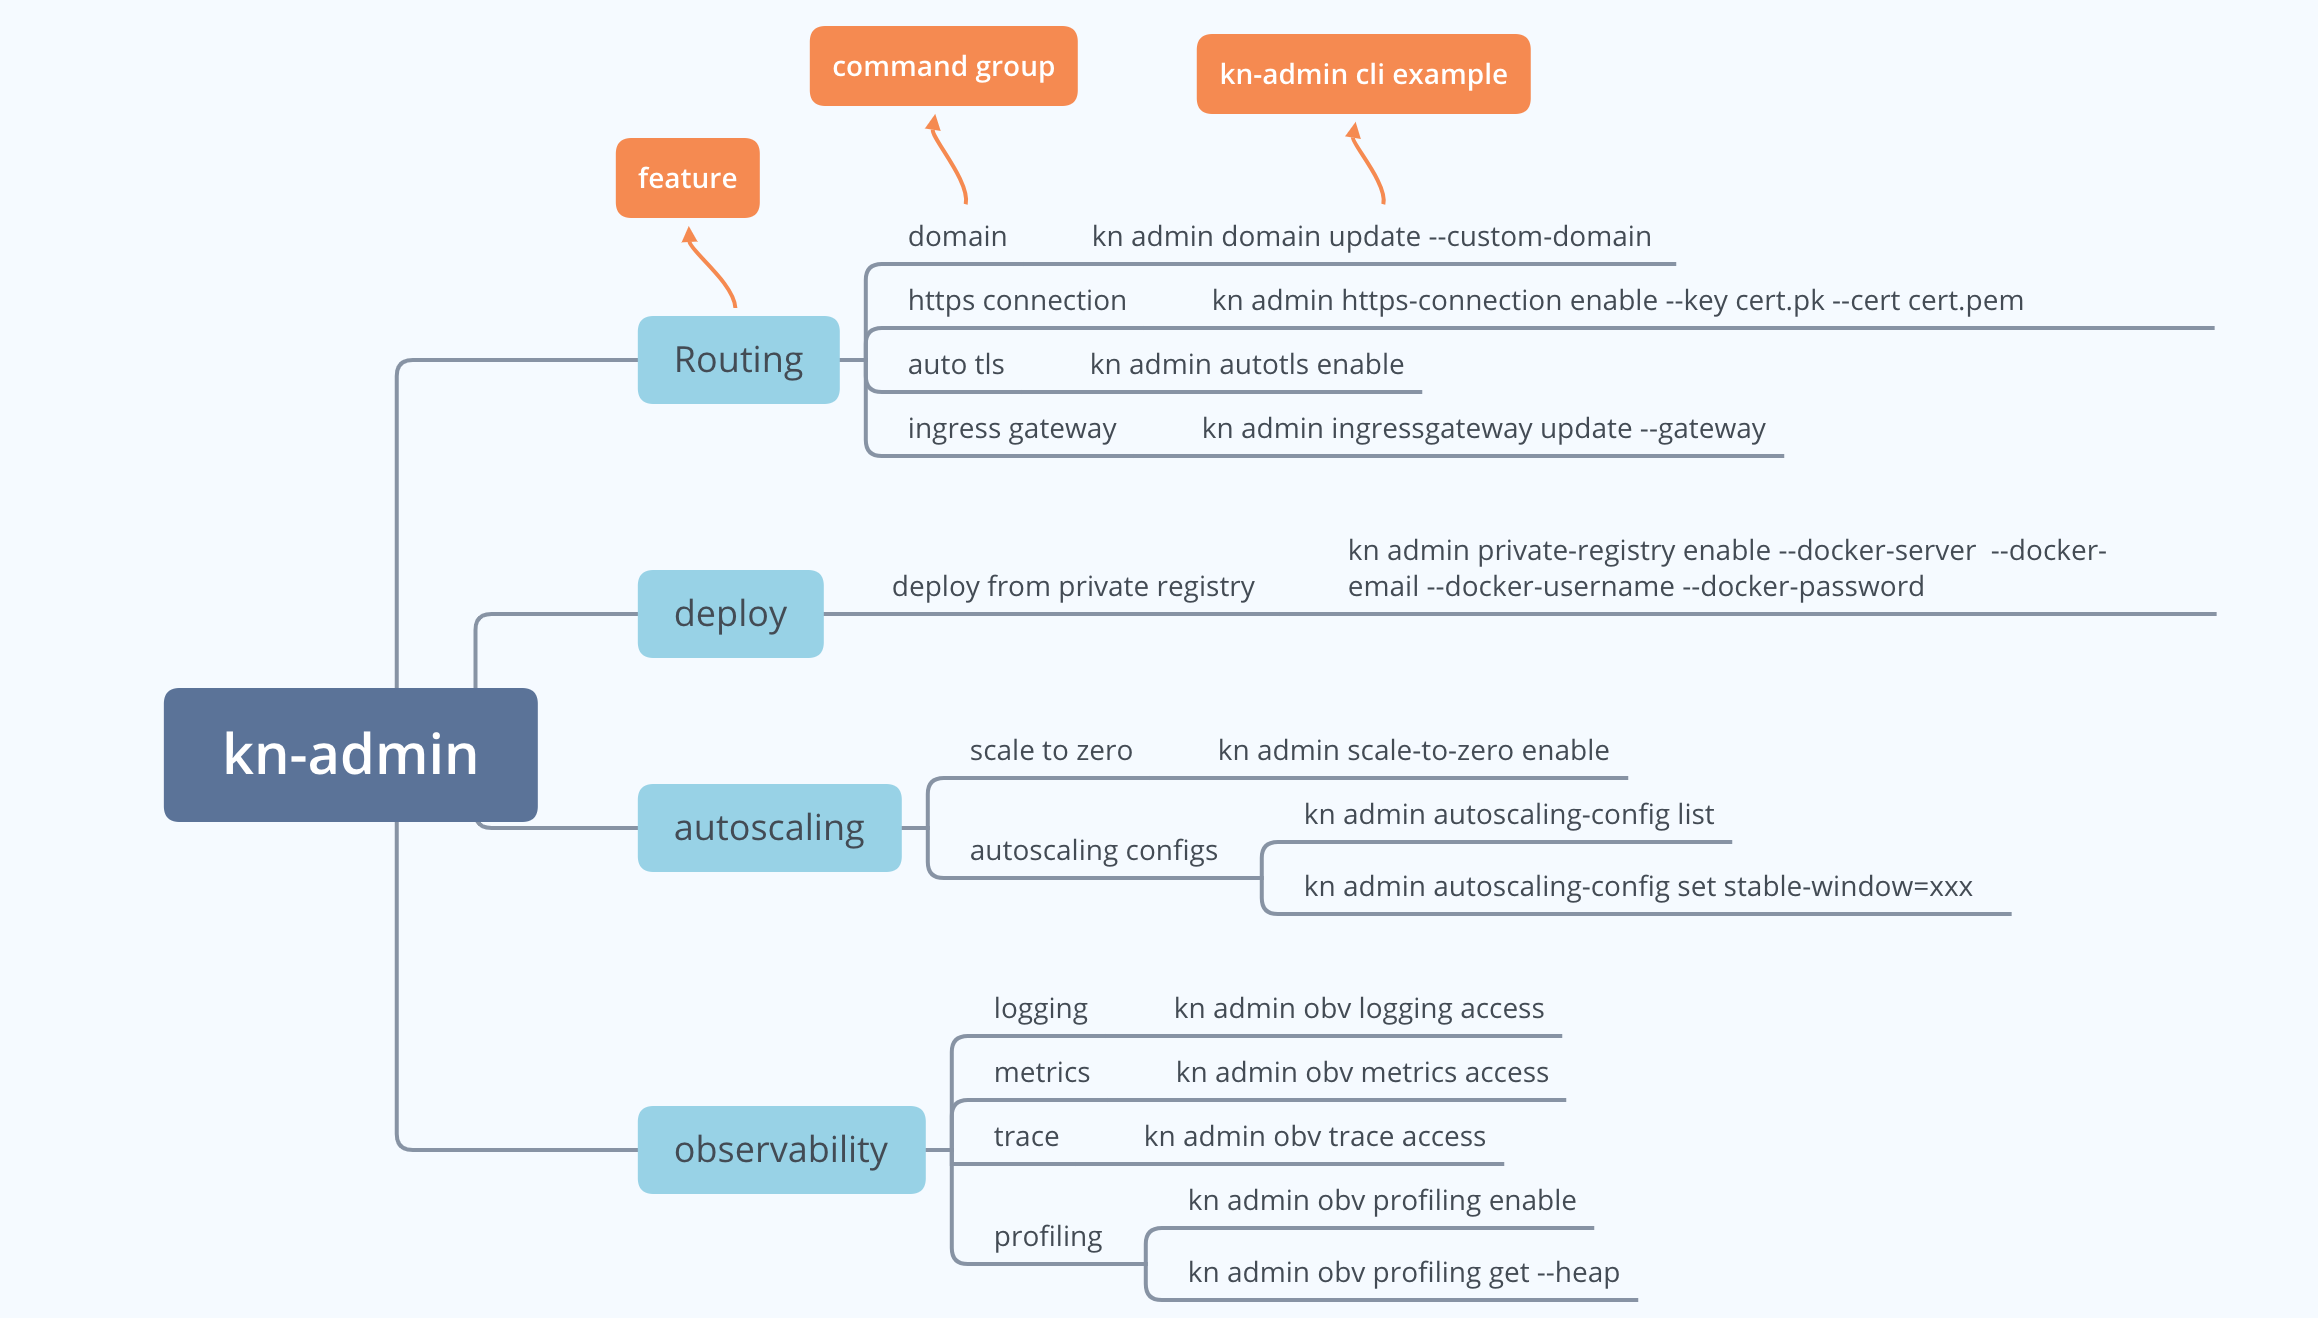
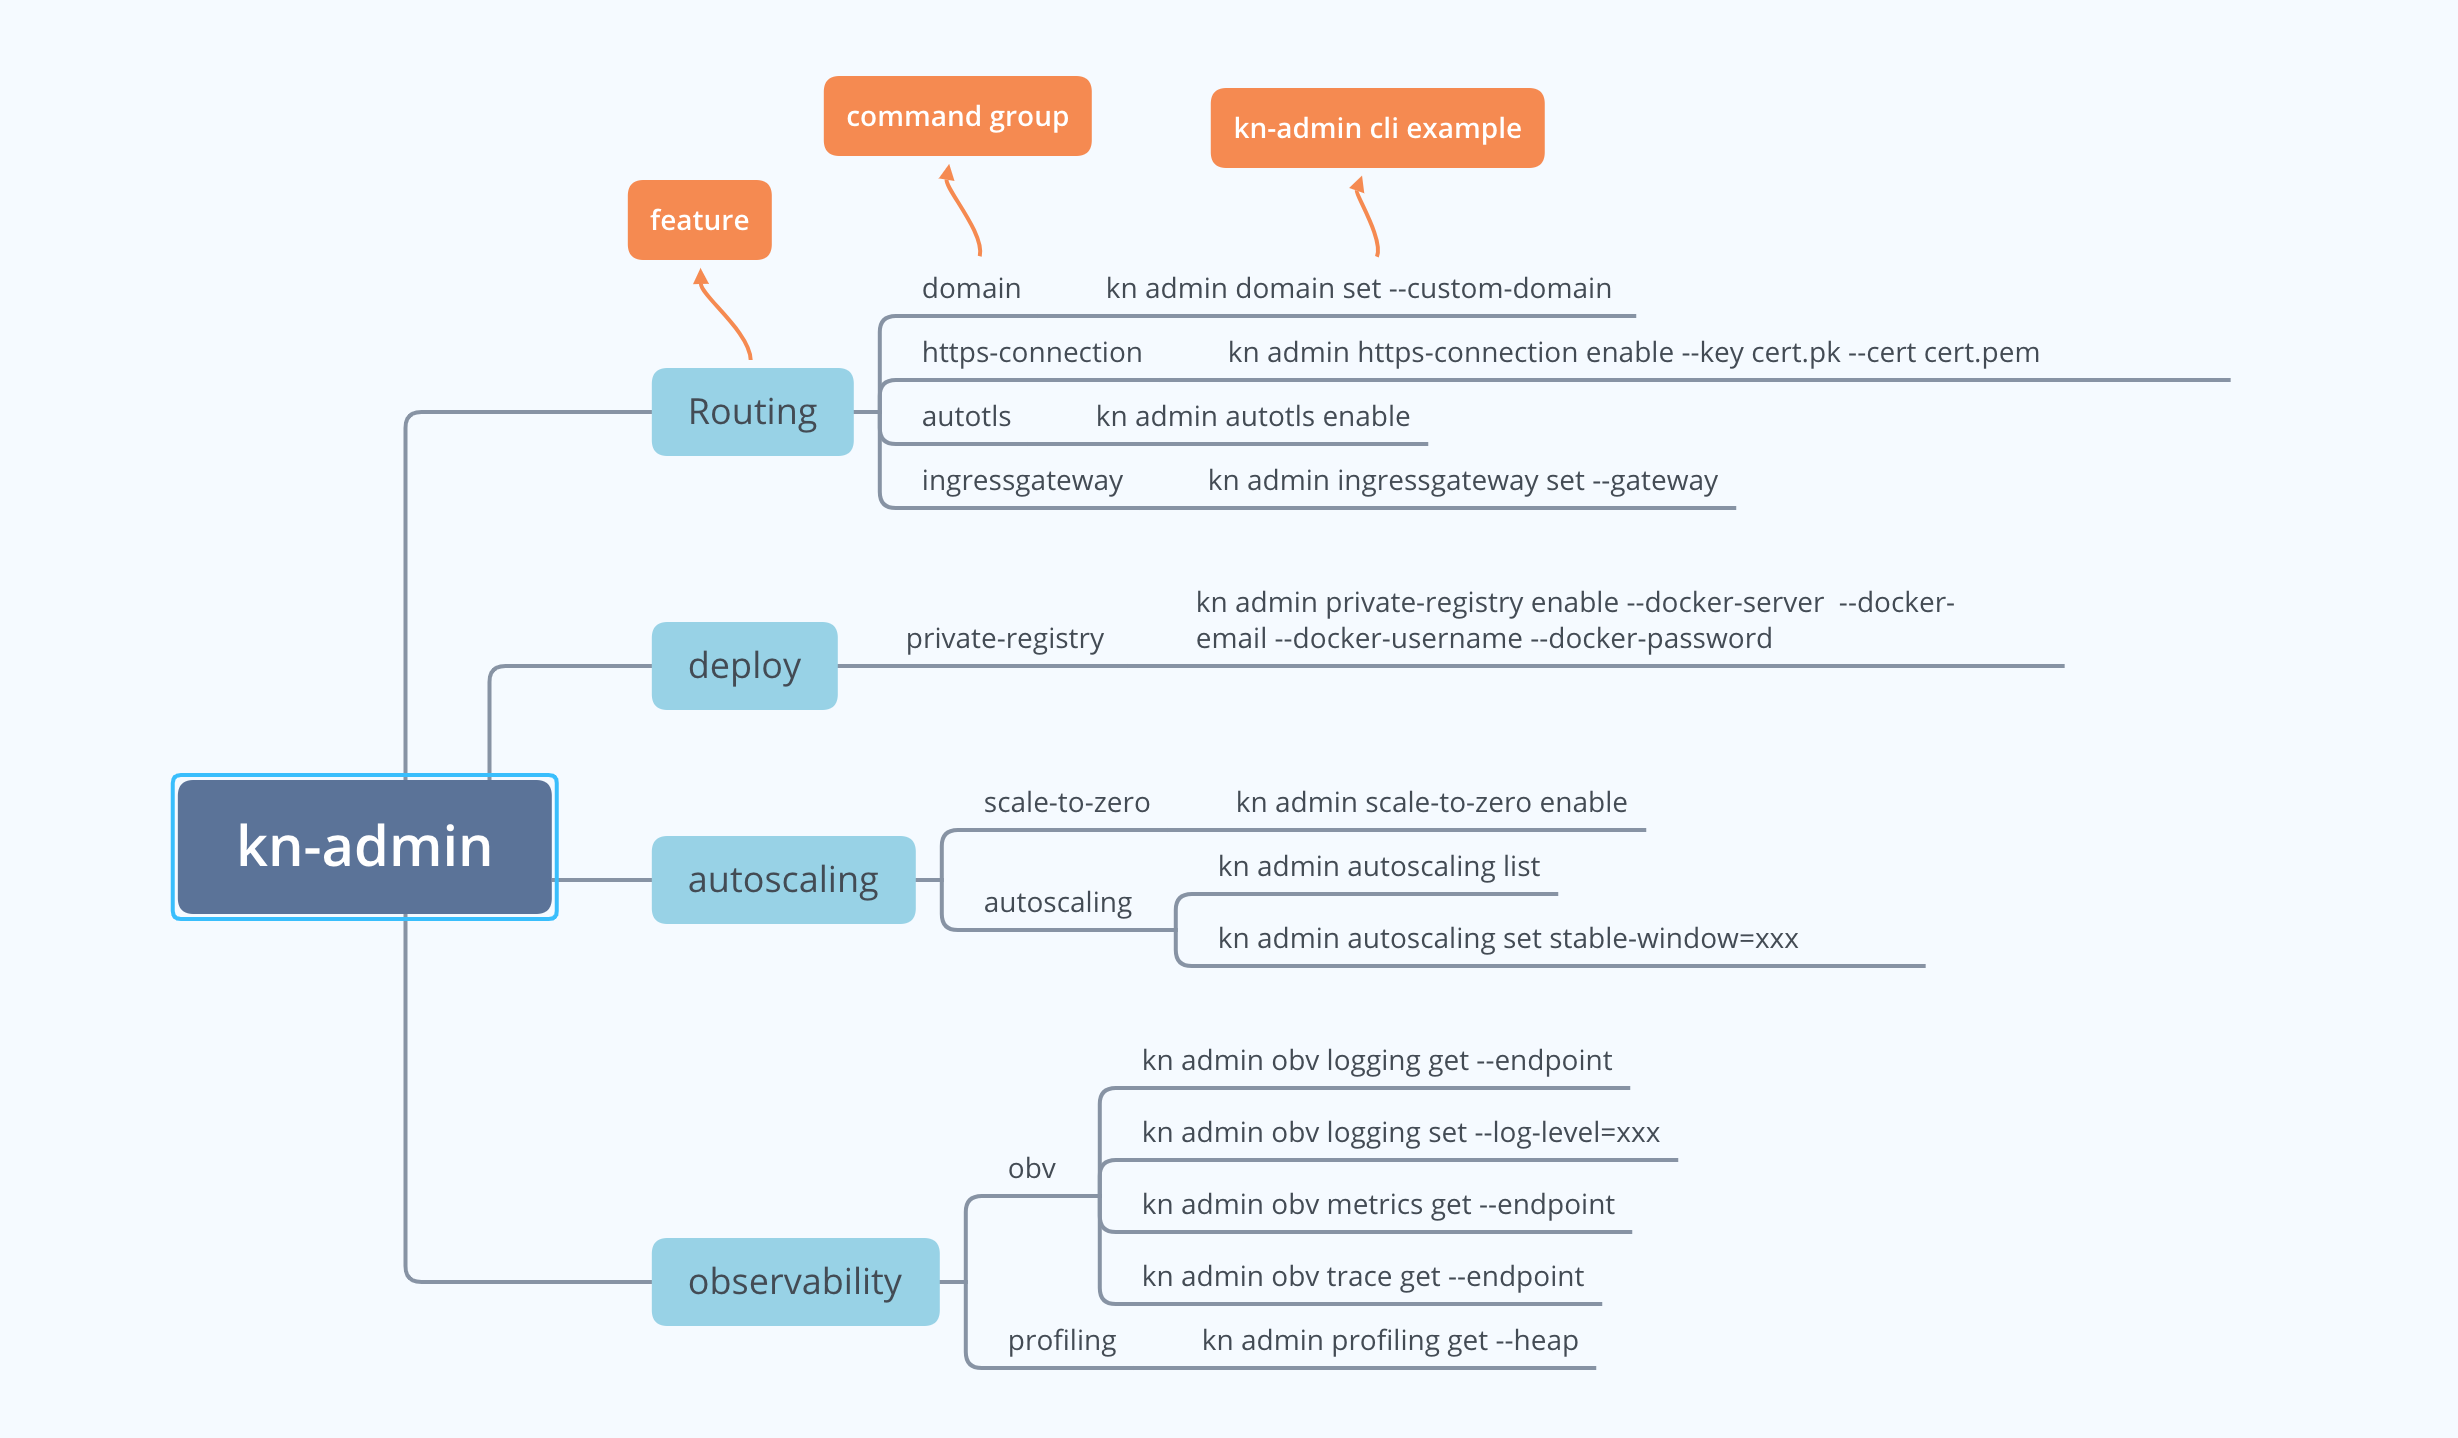
Support private registry

Changed region(s): [[0.0621, 0.0, 0.9008, 0.9954], [0.2174, 0.4044, 0.9008, 0.4977]]

diff --git a/cmd/private-registry-enable.go b/cmd/private-registry-enable.go
@@ -1,0 +1,153 @@
+/*
+Copyright © 2020 NAME HERE <EMAIL ADDRESS>
+
+Licensed under the Apache License, Version 2.0 (the "License");
+you may not use this file except in compliance with the License.
+You may obtain a copy of the License at
+
+    http://www.apache.org/licenses/LICENSE-2.0
+
+Unless required by applicable law or agreed to in writing, software
+distributed under the License is distributed on an "AS IS" BASIS,
+WITHOUT WARRANTIES OR CONDITIONS OF ANY KIND, either express or implied.
+See the License for the specific language governing permissions and
+limitations under the License.
+*/
+package cmd
+
+import (
+	"fmt"
+	corev1 "k8s.io/api/core/v1"
+	metav1 "k8s.io/apimachinery/pkg/apis/meta/v1"
+	"k8s.io/client-go/kubernetes"
+	"k8s.io/client-go/tools/clientcmd"
+	"os"
+
+	"github.com/spf13/cobra"
+	"encoding/json"
+)
+
+type prcmdFlags struct {
+	DockerServer string
+	SecretName string
+	DockerEmail string
+	DockerUsername string
+	DockerPassword string
+}
+
+type DockerRegistry struct {
+	Auths Auths `json:"auths"`
+}
+type UsIcrIo struct {
+	Username string `json:"Username"`
+	Password string `json:"Password"`
+	Email    string `json:"Email"`
+}
+type Auths struct {
+	UsIcrIo UsIcrIo `json:"us.icr.io"`
+}
+
+var prflags prcmdFlags
+
+// enableCmd represents the enable command
+var prEnableCmd = &cobra.Command{
+	Use:   "enable",
+	Short: "A brief description of your command",
+	Long: `A longer description that spans multiple lines and likely contains examples
+and usage of using your command. For example:
+
+Cobra is a CLI library for Go that empowers applications.
+This application is a tool to generate the needed files
+to quickly create a Cobra application.`,
+	Run: func(cmd *cobra.Command, args []string) {
+		kubeConfig := os.Getenv("KUBECONFIG")
+		if kubeConfig == "" {
+			fmt.Println("cannot get cluster kube config, please export environment variable KUBECONFIG")
+			os.Exit(1)
+		}
+
+		cfg, err := clientcmd.BuildConfigFromFlags("", kubeConfig)
+		if err != nil {
+			fmt.Println("failed to build config:", err)
+			os.Exit(1)
+		}
+
+		clientset, err := kubernetes.NewForConfig(cfg)
+		if err != nil {
+			fmt.Println("failed to create client:", err)
+			os.Exit(1)
+		}
+
+		dockerCfg := DockerRegistry{
+			Auths: Auths{
+				UsIcrIo: UsIcrIo{
+					Username: prflags.DockerUsername,
+					Password: prflags.DockerPassword,
+					Email: prflags.DockerEmail,
+				},
+			},
+		}
+
+		j, err := json.Marshal(dockerCfg)
+		if err != nil {
+			panic(err)
+		}
+
+		secretData := map[string][]byte{
+			".dockerconfigjson": j,
+		}
+
+		secret := &corev1.Secret{
+			TypeMeta: metav1.TypeMeta{
+				Kind:       "Secret",
+				APIVersion: "v1",
+			},
+			Type: corev1.SecretTypeDockerConfigJson,
+			ObjectMeta: metav1.ObjectMeta{
+				Name:      prflags.SecretName,
+				Namespace: "default",
+			},
+			Data: secretData,
+		}
+
+		_, err = clientset.CoreV1().Secrets("default").Create(secret)
+		if err != nil {
+			fmt.Println("failed to create secret:", err)
+			os.Exit(1)
+		}
+
+		defaultSa, err := clientset.CoreV1().ServiceAccounts("default").Get("default", metav1.GetOptions{})
+		desiredSa := defaultSa.DeepCopy()
+		desiredSa.ImagePullSecrets = []corev1.LocalObjectReference{{
+				Name: prflags.SecretName,
+			},}
+
+		_, err = clientset.CoreV1().ServiceAccounts("default").Update(desiredSa)
+		if err != nil {
+			fmt.Println("failed to add registry secret in default Service Account:", err)
+			os.Exit(1)
+		}
+
+		fmt.Printf("Private registry %s enabled for default Service Account", prflags.DockerServer)
+	},
+}
+
+func init() {
+	privateRegistryCmd.AddCommand(prEnableCmd)
+
+	// Here you will define your flags and configuration settings.
+
+	// Cobra supports Persistent Flags which will work for this command
+	// and all subcommands, e.g.:
+	// enableCmd.PersistentFlags().String("foo", "", "A help for foo")
+
+	// Cobra supports local flags which will only run when this command
+	// is called directly, e.g.:
+	// enableCmd.Flags().BoolP("toggle", "t", false, "Help message for toggle")
+
+	prEnableCmd.Flags().StringVar(&prflags.SecretName, "secret-name", "", "Registry Secret Name")
+	prEnableCmd.Flags().StringVar(&prflags.DockerServer, "docker-server", "", "Registry Address")
+	prEnableCmd.Flags().StringVar(&prflags.DockerEmail, "docker-email", "", "Registry Email")
+	prEnableCmd.Flags().StringVar(&prflags.DockerUsername, "docker-username", "", "Registry Username")
+	prEnableCmd.Flags().StringVar(&prflags.DockerPassword, "docker-password", "", "Registry Email")
+}

diff --git a/cmd/profiling.go b/cmd/profiling.go
@@ -21,10 +21,10 @@ import (
 	"github.com/spf13/cobra"
 )
 
-// autoscalingConfigCmd represents the autoscalingConfig command
-var autoscalingConfigCmd = &cobra.Command{
-	Use:   "autoscaling",
-	Short: "Manage autoscaling config",
+// profilingCmd represents the profiling command
+var profilingCmd = &cobra.Command{
+	Use:   "profiling",
+	Short: "Manage profiling data",
 	Long: `A longer description that spans multiple lines and likely contains examples
 and usage of using your command. For example:
 
@@ -32,20 +32,20 @@ Cobra is a CLI library for Go that empowers applications.
 This application is a tool to generate the needed files
 to quickly create a Cobra application.`,
 	Run: func(cmd *cobra.Command, args []string) {
-		fmt.Println("autoscalingConfig called")
+		fmt.Println("profiling called")
 	},
 }
 
 func init() {
-	rootCmd.AddCommand(autoscalingConfigCmd)
+	rootCmd.AddCommand(profilingCmd)
 
 	// Here you will define your flags and configuration settings.
 
 	// Cobra supports Persistent Flags which will work for this command
 	// and all subcommands, e.g.:
-	// autoscalingConfigCmd.PersistentFlags().String("foo", "", "A help for foo")
+	// profilingCmd.PersistentFlags().String("foo", "", "A help for foo")
 
 	// Cobra supports local flags which will only run when this command
 	// is called directly, e.g.:
-	// autoscalingConfigCmd.Flags().BoolP("toggle", "t", false, "Help message for toggle")
+	// profilingCmd.Flags().BoolP("toggle", "t", false, "Help message for toggle")
 }

diff --git a/cmd/ingressgateway.go b/cmd/ingressgateway.go
@@ -24,7 +24,7 @@ import (
 // ingressgatewayCmd represents the ingressgateway command
 var ingressgatewayCmd = &cobra.Command{
 	Use:   "ingressgateway",
-	Short: "Manage Ingress Gateway",
+	Short: "Manage ingress gateway",
 	Long: `A longer description that spans multiple lines and likely contains examples
 and usage of using your command. For example:
 

diff --git a/cmd/scaleToZero.go b/cmd/scaleToZero.go
@@ -24,7 +24,7 @@ import (
 // scaleToZeroCmd represents the scaleToZero command
 var scaleToZeroCmd = &cobra.Command{
 	Use:   "scale-to-zero",
-	Short: "Manage feature of scale to zero",
+	Short: "Manage scale to zero",
 	Long: `A longer description that spans multiple lines and likely contains examples
 and usage of using your command. For example:
 

diff --git a/cmd/domain.go b/cmd/domain.go
@@ -23,7 +23,7 @@ import (
 // domainCmd represents the domain command
 var domainCmd = &cobra.Command{
 	Use:   "domain",
-	Short: "Manage Knative route domain",
+	Short: "Manage route domain",
 	Long: `A longer description that spans multiple lines and likely contains examples
 and usage of using your command. For example:
 

diff --git a/cmd/https-connection-enable.go b/cmd/https-connection-enable.go
@@ -148,7 +148,7 @@ to quickly create a Cobra application.`,
 			os.Exit(1)
 		}
 
-		fmt.Printf("Enabled feature flag https-connection\n")
+		fmt.Printf("Enabled https-connection\n")
 
 	},
 }

diff --git a/README.md b/README.md
@@ -1,18 +1,20 @@
 # kn-admin
 A plugin for kn client for management
+It is used to help administrators or operators to manage Knative platform with kn CLI and make their lives easier, like feature flags enablement or disablement, instead of many manual steps like modifying several of ConfigMaps or yaml files to update one config or feature.
 
-* This repo is under development.
+
+* Note: This repo is under development.
 
 ## kn-admin Design
 ![kn-admin design](docs/kn_admin_design.png)
 
 ## kn-admin Usage
 ```bash
- ./kn-admin -h
-A plugin of kn client to manage Knative for administrators. 
+$ kn admin -h
+A plugin of kn client to manage Knative for administrators.
 
 For example:
-kn admin domain update - to update Knative route domain to a custom domain
+kn admin domain set - to set Knative route domain to a custom domain
 kn admin https-connection enable - to enable https connection for Knative Service
 kn admin private-registry enable - to enable deployment from the private registry
 kn admin scale-to-zero enable - to enable scale to zero
@@ -22,14 +24,16 @@ Usage:
   admin [command]
 
 Available Commands:
-  autoscaling-config Manage autoscaling config
-  autotls            Manage autotls with Cert Manager
-  domain             Manage Knative route domain
-  help               Help about any command
-  ingressgateway     Manage Ingress Gateway
-  obv                Manage Observability
-  private-registry   Manage private-registry
-  scale-to-zero      Manage feature of scale to zero
+  autoscaling      Manage autoscaling config
+  autotls          Manage autotls with Cert Manager
+  domain           Manage route domain
+  help             Help about any command
+  https-connection Manage https connection for Service
+  ingressgateway   Manage ingress gateway
+  obv              Manage Observability
+  private-registry Manage private-registry
+  profiling        Manage profiling data
+  scale-to-zero    Manage 'scale to zero'
 
 Flags:
       --config string   config file (default is $HOME/.kn-admin.yaml)
@@ -37,5 +41,23 @@ Flags:
   -t, --toggle          Help message for toggle
 
 Use "admin [command] --help" for more information about a command.
+```
+
+## kn-admin Usage Examples
+```bash
+$ Kn admin domain set --custom-domain mydomain.com
+Knative route domain is updated to `mydomain.com`
+
+$ kn admin https-connection enable --tls-cert ${workspace}/demo.pem --tls-key ${workspace}/demo.key
+Knative serving https connection is enabled
+
+
+$ kn admin private-registry enable \
+  --secret-name=[SECRET_NAME]
+  --docker-server=[PRIVATE_REGISTRY_SERVER_URL] \
+  --docker-email=[PRIVATE_REGISTRY_EMAIL] \
+  --docker-username=[PRIVATE_REGISTRY_USER] \
+  --docker-password=[PRIVATE_REGISTRY_PASSWORD]
+
 ```
 
